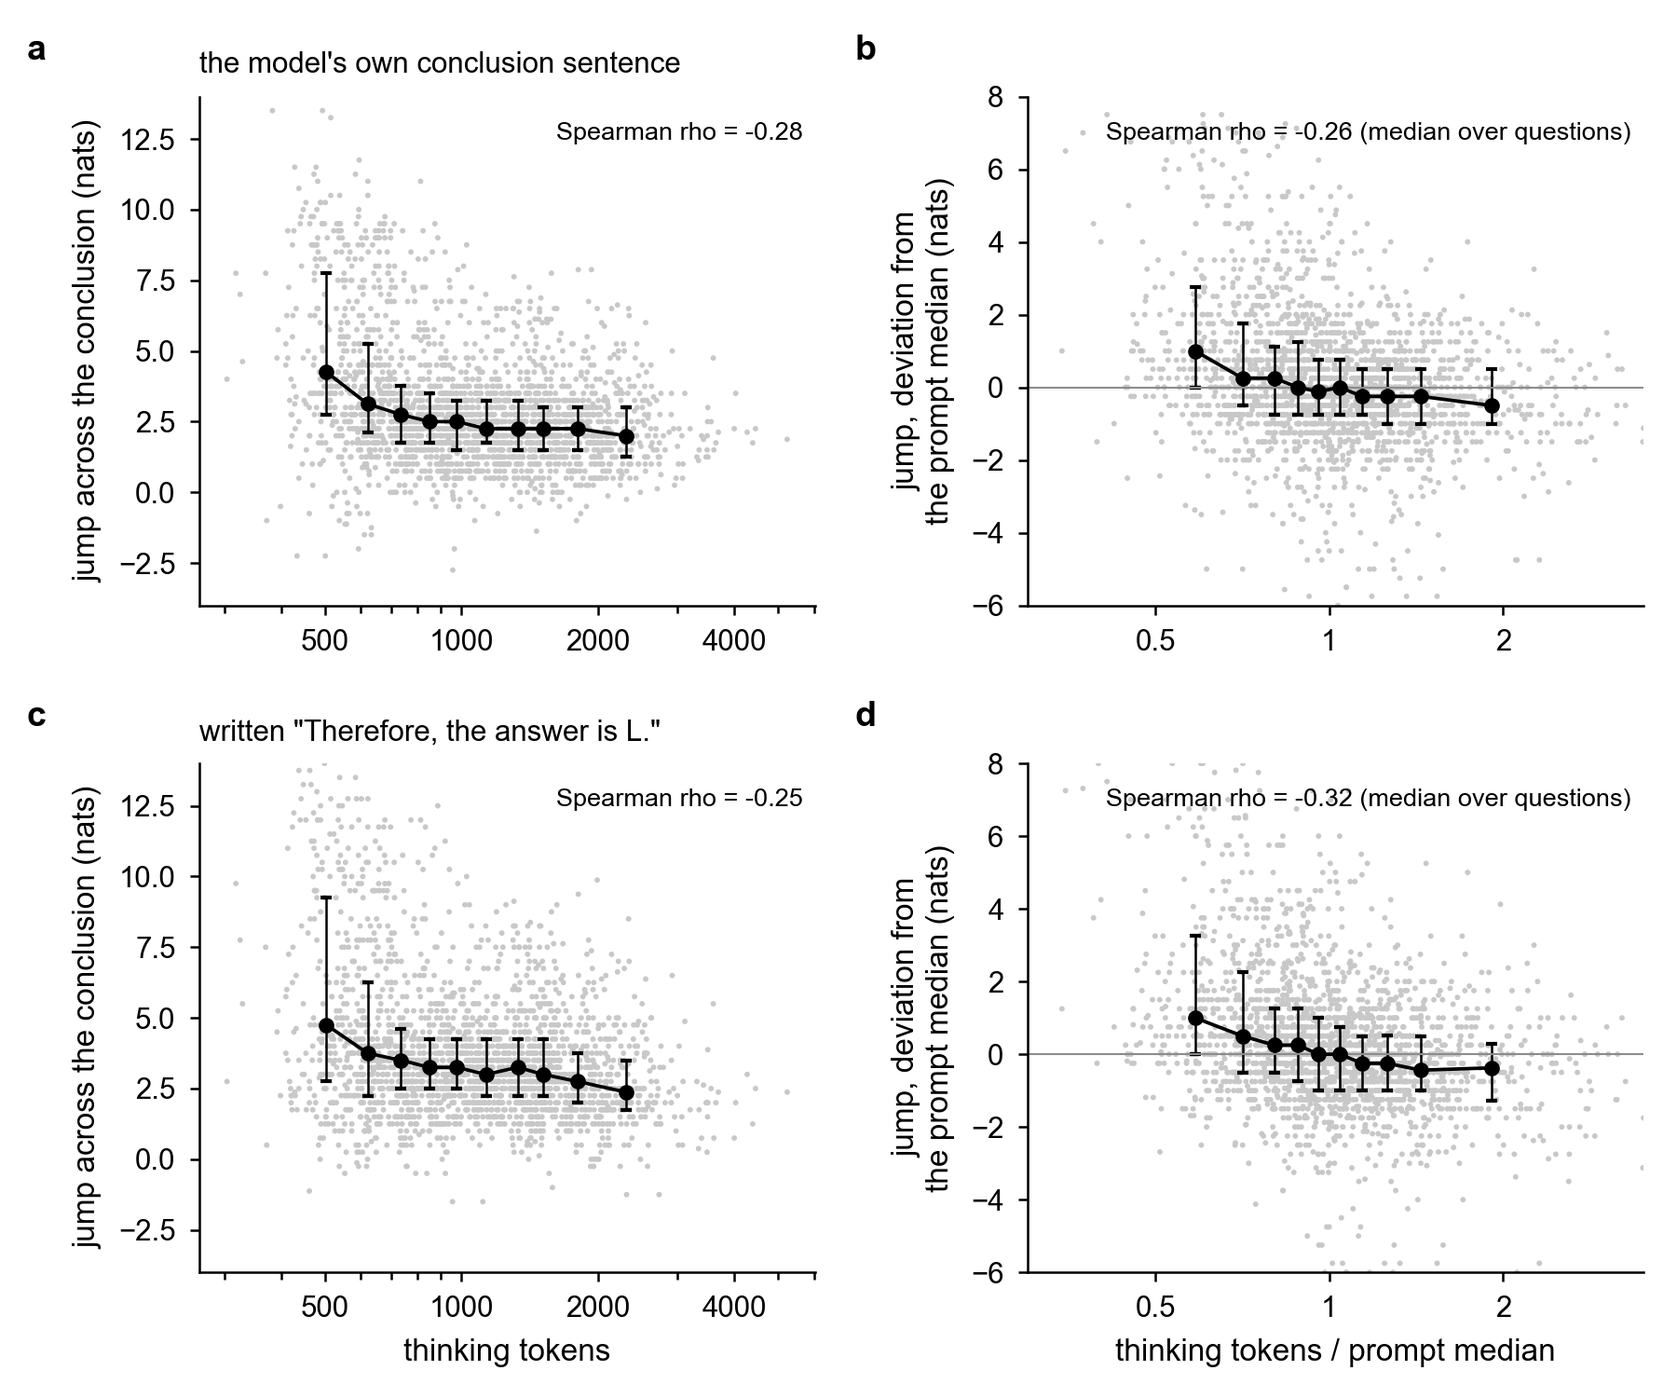
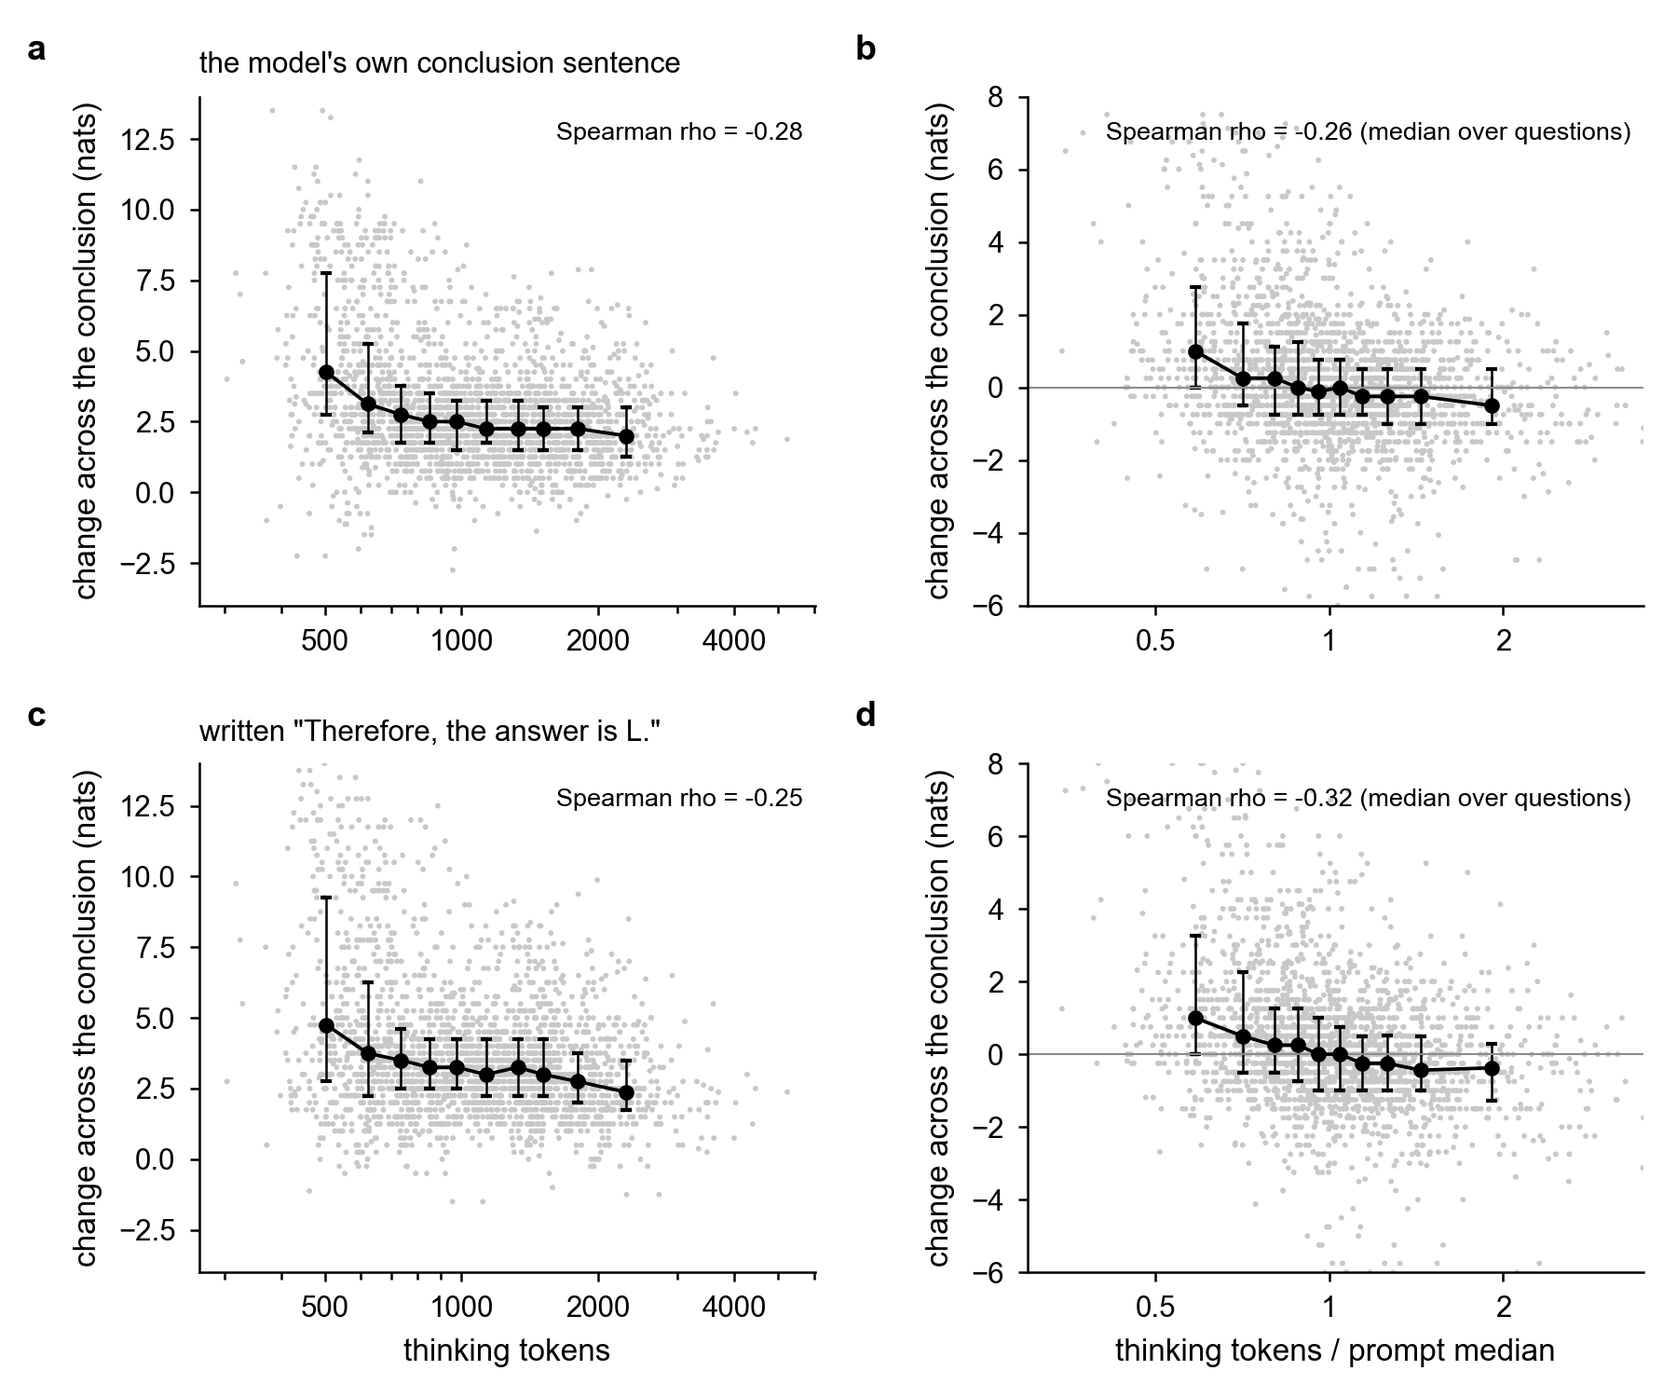
Paper: change instead of jump; outline item 7, attention of the running state (Figure 7)

diff --git a/paper/main.tex b/paper/main.tex
@@ -17,36 +17,36 @@ a reasoning model's confidence is a read of its own written conclusion}
 \maketitle
 
 \begin{abstract}
-Reasoning language models end their thinking with a conclusion sentence (``Therefore, the answer is A.'') and then answer. In Qwen3-8B on 981 two-option diagnosis questions from MedXpertQA, the change in the log-probability difference between the two options across that sentence shrinks as the reasoning gets longer. To see how confidence builds over a whole reasoning trajectory, we cut the thinking at every sentence boundary, close the thinking block, and read the model's answer at each cut. The resulting curve stays flat through most of the trajectory, and most of its change occurs in the last few sentences, when the model writes its conclusion. This late, self-generated rise resembles confidence inflation in human judgment, where confidence rises as people keep deliberating even though no new evidence has arrived. Recomputing the attention of the answer-writing position in every layer and head shows that this position reads the conclusion sentence directly, and that the jump is proportional to the attention share the sentence receives, which accounts for the length effect. Masked-attention ablations let us dissect the mechanism further. Hiding the conclusion sentence from the answer-writing position removes the jump, and we replicate the known finding that such reads are carried by a small set of mid-to-late-layer heads. The attention of these heads is not simply diluted by the amount of context but by the amount of the model's own reasoning they attend to, which grows with its length. Together these results show that the answer is not read out from an internal belief, which truncation probes show is formed well before the conclusion, but retrieved from the model's own written conclusion. The reasoning trajectory serves as externalised working memory: the model writes its decision down and reads it back, and its confidence is the fidelity of that read.
+Reasoning language models end their thinking with a conclusion sentence (``Therefore, the answer is A.'') and then answer. In Qwen3-8B on 981 two-option diagnosis questions from MedXpertQA, the change in the log-probability difference between the two options across that sentence shrinks as the reasoning gets longer. To see how confidence builds over a whole reasoning trajectory, we cut the thinking at every sentence boundary, close the thinking block, and read the model's answer at each cut. The resulting curve stays flat through most of the trajectory, and most of its change occurs in the last few sentences, when the model writes its conclusion. This late, self-generated rise resembles confidence inflation in human judgment, where confidence rises as people keep deliberating even though no new evidence has arrived. Recomputing the attention of the answer-writing position in every layer and head shows that this position reads the conclusion sentence directly, and that the change is proportional to the attention share the sentence receives, which accounts for the length effect. Masked-attention ablations let us dissect the mechanism further. Hiding the conclusion sentence from the answer-writing position removes the jump, and we replicate the known finding that such reads are carried by a small set of mid-to-late-layer heads. The attention of these heads is not simply diluted by the amount of context but by the amount of the model's own reasoning they attend to, which grows with its length. Together these results show that the answer is not read out from an internal belief, which truncation probes show is formed well before the conclusion, but retrieved from the model's own written conclusion. The reasoning trajectory serves as externalised working memory: the model writes its decision down and reads it back, and its confidence is the fidelity of that read.
 \end{abstract}
 
 \section*{Outline}
 
 \begin{enumerate}
-\item \textbf{The observation.} When the thinking of a trace is cut at successive sentence boundaries and the answer is read at each cut, the readout stays near indifference through most of the trajectory and rises in the last sentences, where the model writes its conclusion sentence. The rise across that sentence is large in short traces and small in long ones (Figure~\ref{fig:examples}). Over the 2,400 traces of the 12-question study the pattern is the rule, not the exception: two thirds of the readout's change falls in the last fifth of the trajectory, and the jump across the conclusion sentence falls from 4.8 nats in the shortest tenth of the traces to 2.3 in the longest. Across the 1,962 prompts of the screening run, the answer's log-odds fall with reasoning length within a question in 94\% of prompts.
+\item \textbf{The observation.} When the thinking of a trace is cut at successive sentence boundaries and the answer is read at each cut, the readout stays near indifference through most of the trajectory and rises in the last sentences, where the model writes its conclusion sentence. The rise across that sentence is large in short traces and small in long ones (Figure~\ref{fig:examples}). Over the 2,400 traces of the 12-question study the pattern is the rule, not the exception: two thirds of the readout's change falls in the last fifth of the trajectory, and the change across the conclusion sentence falls from 4.8 nats in the shortest tenth of the traces to 2.3 in the longest. Across the 1,962 prompts of the screening run, the answer's log-odds fall with reasoning length within a question in 94\% of prompts.
 
 \begin{figure}[h]
 \centering
 \includegraphics[width=0.9\textwidth]{confidence_inflation_in_llms/fig0_example_trajectories.png}
-\caption{The closed readout along three reasoning trajectories of one question (Qwen3-8B; MedXpertQA pair Text-699, left unilateral sacral extension versus flexion, correct answer A), of 523, 941 and 1,330 thinking tokens (the 10th percentile, above the median, and the 90th percentile of length among the question's correct traces). At every sentence boundary the thinking is cut, the thinking block is closed, and the model's answer is read as $\log p(A) - \log p(B)$. Open circle: the readout before the conclusion sentence; filled circle: after it, where the model wrote \texttt{</think>}. The double arrow marks the jump across the conclusion sentence. The readout stays near zero through most of each trajectory and rises in the last sentences, and the jump shrinks with length.}
+\caption{The closed readout along three reasoning trajectories of one question (Qwen3-8B; MedXpertQA pair Text-699, left unilateral sacral extension versus flexion, correct answer A), of 523, 941 and 1,330 thinking tokens (the 10th percentile, above the median, and the 90th percentile of length among the question's correct traces). At every sentence boundary the thinking is cut, the thinking block is closed, and the model's answer is read as $\log p(A) - \log p(B)$. Open circle: the readout before the conclusion sentence; filled circle: after it, where the model wrote \texttt{</think>}. The double arrow marks the change across the conclusion sentence. The readout stays near zero through most of each trajectory and rises in the last sentences, and the change shrinks with length.}
 \label{fig:examples}
 \end{figure}
 
-\item \textbf{The jump shrinks with reasoning length, across and within questions.} The change in $\log p(A) - \log p(B)$ across the conclusion sentence falls as the thinking gets longer, whether the traces of all 12 questions are pooled or each trace is compared with the other traces of its own question (Figure~\ref{fig:jump}, top). The same holds when the model's own conclusion is replaced by one sentence written into every trace, ``Therefore, the answer is L.'' with L the trace's own letter, so the sentence is identical and only the reasoning before it differs (Figure~\ref{fig:jump}, bottom). The wording of the conclusion is therefore not what makes the jump smaller in long traces.
+\item \textbf{The change shrinks with reasoning length, across and within questions.} The change in $\log p(A) - \log p(B)$ across the conclusion sentence falls as the thinking gets longer, whether the traces of all 12 questions are pooled or each trace is compared with the other traces of its own question (Figure~\ref{fig:jump}, top). The same holds when the model's own conclusion is replaced by one sentence written into every trace, ``Therefore, the answer is L.'' with L the trace's own letter, so the sentence is identical and only the reasoning before it differs (Figure~\ref{fig:jump}, bottom). The wording of the conclusion is therefore not what makes the change smaller in long traces.
 
 \begin{figure}[h]
 \centering
 \includegraphics[width=0.85\textwidth]{confidence_inflation_in_llms/fig_jump_vs_length.png}
-\caption{The jump across the conclusion sentence against thinking length (2,400 traces; dots = traces, points = medians per decile with quartiles). Top: the model's own conclusion sentence. Bottom: the sentence ``Therefore, the answer is L.'' written at the onset of every trace in place of the model's own. Left: all traces pooled, $x$ = thinking tokens. Right: within question, $x$ = tokens over the question's median length, $y$ = the jump minus the question's median jump. Spearman correlations are given in each panel; the within-question value is the median over the 24 prompts.}
+\caption{The change across the conclusion sentence against thinking length (2,400 traces; dots = traces, points = medians per decile with quartiles). Top: the model's own conclusion sentence. Bottom: the sentence ``Therefore, the answer is L.'' written at the onset of every trace in place of the model's own. Left: all traces pooled, $x$ = thinking tokens. Right: within question, $x$ = tokens over the question's median length, $y$ = the change minus the question's median change. Spearman correlations are given in each panel; the within-question value is the median over the 24 prompts.}
 \label{fig:jump}
 \end{figure}
 
-\item \textbf{The negative correlation holds in nearly every question.} Computed separately for each of the 24 prompts (100 traces each), the Spearman correlation between thinking length and the jump is below zero for 88\% of traces with the model's own conclusion sentence (median $-0.26$) and for 83\% with the written sentence (median $-0.32$; Figure~\ref{fig:jumphist}).
+\item \textbf{The negative correlation holds in nearly every question.} Computed separately for each of the 24 prompts (100 traces each), the Spearman correlation between thinking length and the change is below zero for 88\% of traces with the model's own conclusion sentence (median $-0.26$) and for 83\% with the written sentence (median $-0.32$; Figure~\ref{fig:jumphist}).
 
 \begin{figure}[h]
 \centering
 \includegraphics[width=0.85\textwidth]{confidence_inflation_in_llms/fig_jump_length_hist.png}
-\caption{Per-question correlation between thinking length and the jump across the conclusion sentence (Spearman, one value per prompt, 24 prompts of 100 traces; each trace is counted under its prompt's correlation). (a) The model's own conclusion sentence. (b) The written sentence ``Therefore, the answer is L.''}
+\caption{Per-question correlation between thinking length and the change across the conclusion sentence (Spearman, one value per prompt, 24 prompts of 100 traces; each trace is counted under its prompt's correlation). (a) The model's own conclusion sentence. (b) The written sentence ``Therefore, the answer is L.''}
 \label{fig:jumphist}
 \end{figure}
 
@@ -68,13 +68,22 @@ Reasoning language models end their thinking with a conclusion sentence (``There
 \label{fig:attention_length}
 \end{figure}
 
-\item \textbf{The jump across the conclusion sentence follows the attention share the sentence receives.} Within a question, traces whose answer-writing position gives more of its attention to the conclusion sentence show a larger jump across it (Spearman $+0.61$, median over prompts; Figure~\ref{fig:jump_attention}a). The relation is the same when the sentence is the written ``Therefore, the answer is L.'', identical in every trace ($+0.62$; Figure~\ref{fig:jump_attention}b), so it is not driven by what the model chose to write. The share also accounts for the length effect of Figure~\ref{fig:jump}: in a regression of the jump on thinking length and the share, both demeaned within question, the length coefficient falls from $-0.74$ nats per standard deviation on its own to $-0.16$ once the share is included, while the share contributes $+1.42$ ($R^2$ 0.45; written sentence $-0.89$ to $-0.29$, share $+1.47$). Computed with the share in each layer separately, the correlation is about 0.2 in the first layers, 0.5 by layer 10 and 0.6--0.7 in layers 19--29 (Figure~\ref{fig:jump_attention}c).
+\item \textbf{The change across the conclusion sentence follows the attention share the sentence receives.} Within a question, traces whose answer-writing position gives more of its attention to the conclusion sentence show a larger change across it (Spearman $+0.61$, median over prompts; Figure~\ref{fig:jump_attention}a). The relation is the same when the sentence is the written ``Therefore, the answer is L.'', identical in every trace ($+0.62$; Figure~\ref{fig:jump_attention}b), so it is not driven by what the model chose to write. The share also accounts for the length effect of Figure~\ref{fig:jump}: in a regression of the change on thinking length and the share, both demeaned within question, the length coefficient falls from $-0.74$ nats per standard deviation on its own to $-0.16$ once the share is included, while the share contributes $+1.42$ ($R^2$ 0.45; written sentence $-0.89$ to $-0.29$, share $+1.47$). Computed with the share in each layer separately, the correlation is about 0.2 in the first layers, 0.5 by layer 10 and 0.6--0.7 in layers 19--29 (Figure~\ref{fig:jump_attention}c).
 
 \begin{figure}[h]
 \centering
 \includegraphics[width=\textwidth]{confidence_inflation_in_llms/fig3_jump_vs_attention.png}
-\caption{The jump across the conclusion sentence against the attention share the sentence receives from the answer-writing position, both as deviations from their question medians (2,400 traces; dots = traces, line = medians per decile of the share with quartiles). (a) The model's own conclusion sentence. (b) The written sentence ``Therefore, the answer is L.'' (c) The within-question Spearman correlation between the jump and the share, computed with the share in each layer separately, for the own sentence (black) and the written sentence (grey).}
+\caption{The change across the conclusion sentence against the attention share the sentence receives from the answer-writing position, both as deviations from their question medians (2,400 traces; dots = traces, line = medians per decile of the share with quartiles). (a) The model's own conclusion sentence. (b) The written sentence ``Therefore, the answer is L.'' (c) The within-question Spearman correlation between the change and the share, computed with the share in each layer separately, for the own sentence (black) and the written sentence (grey).}
 \label{fig:jump_attention}
+\end{figure}
+
+\item \textbf{What the running state attends to as the reasoning unfolds.} Cutting the thinking at a proportion $t$ of its length and reading the attention of the last token kept shows what the model is looking at after each sentence. The stem and options take 0.20 of that attention at $t = 0.1$ and 0.05 by $t = 0.9$; the last three completed sentences hold about 0.3 throughout; the model's older own sentences grow from 0.11 to 0.35 (Figure~\ref{fig:within}a). The normalised entropy rises from 0.32 on the empty thinking to 0.46 and stays there (Figure~\ref{fig:within}b). Per sentence, an inference or a reconsideration receives about twice the attention of a restated finding, and every kind is diluted as sentences accumulate (Figure~\ref{fig:within}c). The last thinking token, the one that writes \texttt{</think>}, departs from this pattern: its attention moves back to the sink and the format tokens and off the model's own sentences, and its entropy drops to 0.37.
+
+\begin{figure}[h]
+\centering
+\includegraphics[width=\textwidth]{confidence_inflation_in_llms/fig4_attention_within_trace.png}
+\caption{Attention of the last token kept when the thinking is cut at a proportion $t$ of its length (medians over 2,400 traces; $t = 0$ is the empty thinking). The markers at $t = 1$ are the last thinking token, the one that writes \texttt{</think>}, drawn separately because it behaves differently from the running state; each marker has the symbol of its series. (a) Share of attention on the parts of the context. (b) Entropy over the context tokens divided by log(context length), averaged over heads (median and quartiles). (c) Attention per sentence of each kind (the share on all sentences of that kind divided by how many exist by $t$; sentence kinds from the move labels; log axis).}
+\label{fig:within}
 \end{figure}
 
 \end{enumerate}

diff --git a/src/paper_figures.py b/src/paper_figures.py
@@ -326,7 +326,7 @@ def fig3() -> None:
             ax.axhline(0, color=MID, lw=0.5); ax.axvline(0, color=MID, lw=0.5)
             ax.set_xlim(-0.02, 0.03); ax.set_ylim(-8, 10)
             ax.set_xlabel("conclusion sentence's attention share")
-            ax.set_ylabel("jump across the conclusion (nats)" if col == "jump_own" else "")
+            ax.set_ylabel("change across the conclusion (nats)" if col == "jump_own" else "")
             ax.set_title(lab, fontsize=7.5)
         ax = axes[2]
         ax.plot(prof.layer, prof.rho_own, color=BLACK, lw=0.9, marker="o", ms=2.5, label="own sentence")
@@ -374,10 +374,13 @@ def fig4() -> None:
         for p, lab, color, ls, mk in FIG4_PARTS:
             ax.plot(body.t, body[f"mass_{p}"], color=color, ls=ls, lw=0.9, label=lab)
             ax.plot(stop.t, stop[f"mass_{p}"], marker=mk, ms=3.5, color=color, ls="none", markerfacecolor="white" if mk in ("D", "v") else color, markeredgewidth=0.7)
+        from matplotlib.lines import Line2D
         ax.set_xlabel("proportion of the thinking kept")
         ax.set_ylabel("attention share of the last token kept")
         ax.set_ylim(0, 0.64)
-        ax.legend(fontsize=5.5, loc="upper center", bbox_to_anchor=(0.6, 1.0), handlelength=2.2)
+        handles, labels_ = ax.get_legend_handles_labels()
+        handles.append(Line2D([], [], marker="o", ms=3.5, color=BLACK, ls="none")); labels_.append("at 1: the last thinking token")
+        ax.legend(handles, labels_, fontsize=5.5, loc="upper left", bbox_to_anchor=(0.1, 1.0), handlelength=2.2)
         ax = axes[1]
         ax.fill_between(body.t, body.ent_q25, body.ent_q75, color=LIGHT, lw=0)
         ax.plot(body.t, body.ent_norm, color=BLACK, lw=0.9)
@@ -740,8 +743,8 @@ def jump_vs_length() -> None:
     with plt.rc_context(STYLE):
         fig, axes = plt.subplots(2, 2, figsize=(6.0, 5.0))
         for row, (col, lab) in enumerate((("jump_own", "the model's own conclusion sentence"), ("jump_written", 'written "Therefore, the answer is L."'))):
-            for coli, (xcol, ycol, xlabel, ylabel, kind) in enumerate(((("think_tokens", col, "thinking tokens", "jump across the conclusion (nats)", "pooled")),
-                                                                      ("rel", f"{col}_dev", "thinking tokens / prompt median", "jump, deviation from\nthe prompt median (nats)", "within"))):
+            for coli, (xcol, ycol, xlabel, ylabel, kind) in enumerate(((("think_tokens", col, "thinking tokens", "change across the conclusion (nats)", "pooled")),
+                                                                      ("rel", f"{col}_dev", "thinking tokens / prompt median", "change across the conclusion (nats)", "within"))):
                 ax = axes[row, coli]
                 d = t.dropna(subset=[xcol, ycol])
                 xs = d[xcol] if kind == "pooled" else 2 ** d[xcol]
